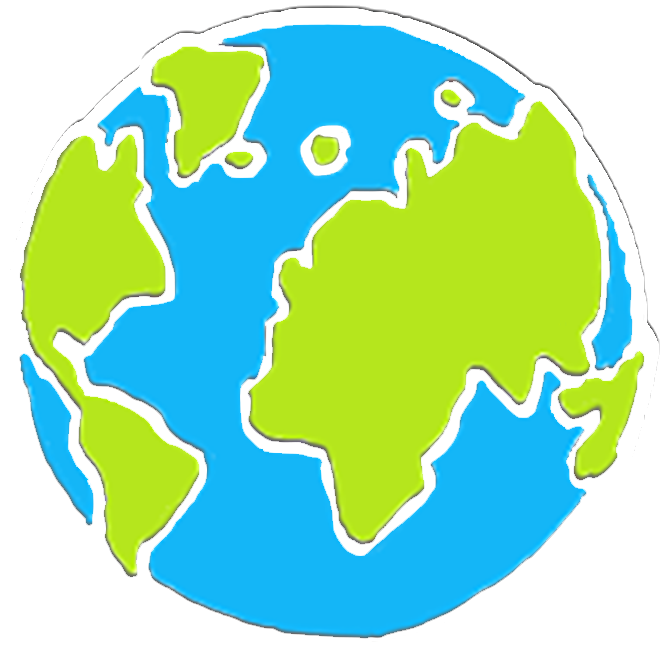
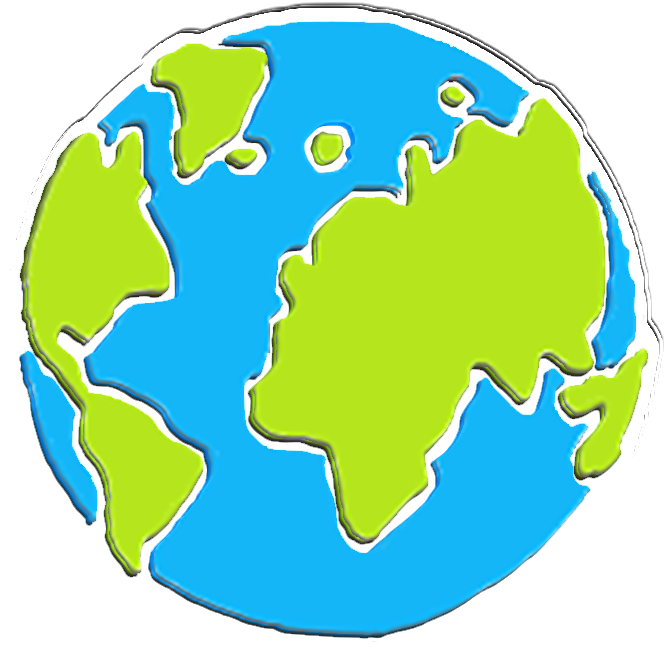
Updated for better accessibility

diff --git a/style.css b/style.css
@@ -11,17 +11,6 @@
     color: var(--lavender);
 }
 
-#search-icon i {
-    width: 50px;
-    height: 50px;
-    border-radius: 50%;
-    background-color: #777777;
-    display: flex;
-    justify-content: center;
-    align-items: center;
-    columns: var(--lite-violet);
-}
-
 #angle-right {
     display: flex;
     justify-content: flex-end;
@@ -61,13 +50,13 @@ a {
 
 .nav-list a {
     color: var(--lite-violet);
+    /* font-size: 20px; */
 }
-
 
 .logo-text {
     text-decoration: none;
     font-family: 'Segoe UI', Tahoma, Geneva, Verdana, sans-serif;
-    font-size: 1.8em;
+    font-size: 1.6em;
     color: var(--lite-violet);
 }
 
@@ -78,7 +67,7 @@ a {
 .nav-text {
     text-decoration: none;
     font-family: 'Segoe UI', Tahoma, Geneva, Verdana, sans-serif;
-    font-size: 1.4em;
+    font-size: 1.02em;
 }
 
 #signup-text {
@@ -109,37 +98,32 @@ a {
 
 body {
     background-color: #26203a;
-    background-image: url("earth.png");
-    background-position: right;
-    /* background-position-y: calc(50% + (80vh - 100%) / 2); */
-    background-position-y: 95%;
-    /* background-position-x: calc(68% + (90vw - 100%) / 2); */
-    background-position-x: 93%;
-    background-size: 40%;
-    background-repeat: no-repeat;
 }
 
-#earth {
-    margin-left: 55.5%;
-    /* margin-left: calc(80% + (90vh - 100%) / 2); */
-    margin-top: -35%;
-    /* margin-top: calc(10% + (10vw - 100%) / 2); */
+img {
     width: 41%;
     height: 69%;
-    /* position: fixed; */
+}
+
+.banner {
+    display: flex;
+    flex-direction: column;
 }
 
 h1 {
-    display: flex;
-    margin-top: 1.01em;
+    margin-top: 1em;
     margin-left: 2em;
     font-family: consolas, monospace, Georgia, Cambria;
-    font-size: 90px;
+    font-size: 75px;
     color: var(--lime);
 }
 
+h2 {
+    margin-left: 2em;
+}
+
 .highlight-text {
-    margin-left: 30px;
+    margin-left: 26px;
     padding: 2px 45px 2px 45px;
     text-decoration-line: underline;
     text-underline-offset: 8px;
@@ -150,7 +134,6 @@ h1 {
 }
 
 h2,
-#description,
 .left-box {
     font-family: consolas, monospace, Georgia, Cambria;
 }
@@ -158,12 +141,12 @@ h2,
 .container {
     display: flex;
     justify-content: space-around;
-    margin-top: -28px;
+    padding: 0.4em;
 }
 
 .left-box {
-    margin-right: 30em;
-    width: 25%;
+    margin-left: calc(25vw - 14.5em);
+    width: 30%;
     padding: 40px;
     font-size: 1.6em;
 }
@@ -173,14 +156,13 @@ h2,
     border-radius: 10px;
     padding: 0px 10px 10px 10px;
     color: #1a1a1a;
-    /* color: rgb(241, 241, 168); */
-
 }
 
-#box-header {
-    width: 96%;
+.box-content h2 {
+    /* width: 96%; */
     margin-left: -2px;
-    padding-left: 30px;
+    padding-left: 40px;
+    margin-right: -32px;
     background-color: #564884;
     color: var(--lime);
     box-shadow: 5px 5px 10px #26203a;
@@ -273,6 +255,7 @@ form h4, form h3 {
 form {
     max-width: 600px;
     min-height: 800px;
+    /* max-height: 100%; */
     margin: 0 auto;
     position: relative;
     padding: 1em;
@@ -281,6 +264,7 @@ form {
     text-align: left;
     background-color: var(--purple);
     color: #ffffff;
+    overflow: hidden;
 }
 
 label {
@@ -288,6 +272,7 @@ label {
     margin: -8px 0px 0px -8px;
     padding-left: 18px;
     height: auto;
+    font-size: medium;
 }
 
 input {

diff --git a/index.html b/index.html
@@ -21,9 +21,7 @@
                     </b>
                 </a>
             </li>
-
         </ul>
-
         <ul class="nav-list">
             <li>
                 <a id="nav-about" href="#" class="nav-text">About Us</a>
@@ -38,7 +36,6 @@
                 <a href="#" class="nav-text">Join our Mission</a>
             </li>
         </ul>
-
         <ul class="nav-list">
             <li>
                 <a href="#" id="search-icon" aria-label="Click to begin search"><i class="fa fa-search fa-lg"></i></a>
@@ -50,26 +47,24 @@
                 <a id="login-text" href="#" class="nav-text">Log In</a>
             </li>
         </ul>
-
     </nav>
-    <div role="banner">
-        <h1>Change Starts with <span class="highlight-text">You</span></h1>
-        <h2 id="description">Small changes in our daily lives can lead to significant transformations <br>for a <span id="subheader-text"><em>greener</em></span> future.</h2>
-    </div>
-    <div class="container">
-        <div class="left-box">
-            <div class="box-content">
-                <h2 id="box-header">Try our Carbon Footprint calculator</h2>
-                <p>Learn what you have been doing well and how you can further offset your carbon emissions</p>
-            </div>
-            <a href="#" id="trigger-modal" class="cta-btn" onclick="displayRegistrationForm()">Register to Begin <i id="angle-right" class="fa fa-angle-right" aria-hidden="true"></i></a>
-            <p id="signin-prompt">Already with us? <a href="#"><strong>Sign In</strong></a></p>
+    <main>
+        <div class="banner" role="banner">
+            <h1>Change Starts with <span class="highlight-text">You</span></h1>
+            <h2 id="description">Small changes in our daily lives can lead to significant transformations <br>for a <span id="subheader-text"><em>greener</em></span> future.</h2>
         </div>
-    </div>
-
-    <div>
-        <img id="earth" alt="Earth" src="earth.png"/>
-    </div>
+        <div class="container">
+            <div class="left-box">
+                <div class="box-content">
+                    <h2 id="box-header">Try our Carbon <br>Footprint calculator</h2>
+                    <p>Learn what you have been doing well and how you can further offset your carbon emissions</p>
+                </div>
+                <a href="#" id="trigger-modal" class="cta-btn" onclick="displayRegistrationForm()">Register to Begin <i id="angle-right" class="fa fa-angle-right" aria-hidden="true"></i></a>
+                <p id="signin-prompt">Already with us? <a href="#"><strong>Sign In</strong></a></p>
+            </div>
+            <img id="earth" alt="Illustration of Earth" src="earth.png"/>
+        </div>
+    </main>
 
     <!-- The Modal Form -->
     <div id="form-ct" class="modal">

diff --git a/README.md b/README.md
@@ -1,15 +1,46 @@
 # phlox-landing
 
+## Description
+
 For our course assignment we were tasked to create a hi-fi prototype of a website that enables users to calculate their carbon footprint. The assignment scope consist of the homepage and online registration form only. 
 
-Requirement
+## Requirement / Scope
+
 - Use brand colour (#d600fc)
 - Design should be suitable for a 1920x1080 screen
-- Homepage and form should not be scrollable
+- A single Call to Action to enable users to sign-up
 - Meet accessibilty guidelines
-- Use Gestalt principles and othr Design principles where appropriate
+- Use Gestalt principles and other Design principles where appropriate
 - Implement with vanilla Javascript
 
-Future Improvement
+## Gestalt Principles 
+### Law of Similarity 
+
+- Elements sharing the brand colour. Creates a sense of togetherness; users are part of the brand's family
+- Font per navigation and main section. The navigation bar sets a more professional tone, while the main section is more playful and compliments the outer-space theme
+
+### Law of Proximity
+
+- Grouping of navigation links. Indicates the links have a similar function i.e. helps to redirect users to a different part of the site
+
+### Law of Common Fate
+
+- Registration form contains indented fields in each section of the form. Implies a shared relationship between those fields
+
+## Design Principles
+
+- Match between system and the real world: Familiar terminology were referenced in the design
+- User control and freedom: A close button was made available on the registration form
+- Consistency and standards: Design for important elements follow the convention of most sites. E.g. Sign Up or Log In on the top-right of the site
+- Error prevention: Using the appropriate `type` attributes for fields in the registration form
+- Aesthetic and minimalist design: Reduced cognitive load by keeping textual information to a mininum on the home page. Used complementary colours
+
+## What I learned
+
+- I was able to provide a better layout between the `img` and `.left-box` by making the following additions to `.container`:
+    - Make `img` the child element 
+    - Assign `display: flex` and `justify-content: space-around` to the selector
+
+## Future Improvements
 - Implement responsive design (This was not a requirement)
 - Make better use of space
